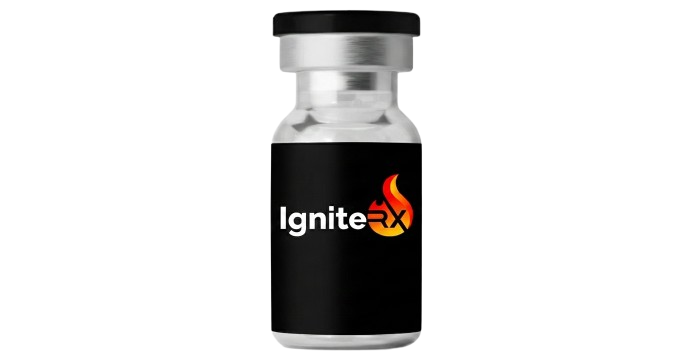
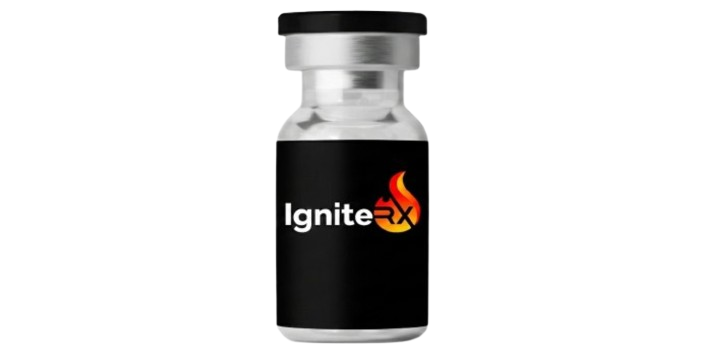
Added new images, slight UI changes

diff --git a/src/components/ExploreTreatment.tsx b/src/components/ExploreTreatment.tsx
@@ -5,11 +5,11 @@ import { ChevronLeft, ChevronRight } from 'lucide-react';
 import weightloss from "../assets/weightloss_new.jpg";
 import metabolic from "../assets/weight_loss.webp";
 import performance from "../assets/sermorelin_new.jpg";
-import longivity from "../assets/Performance.webp";
+import longivity from "../assets/longevity_treatment.jpg";
 import cardio from "../assets/metformin_new.jpg";
-import hairloss from "../assets/HairLoss.webp";
-import lifestyle from "../assets/lifestyle.webp";
-import skincare from "../assets/Skincare.webp";
+import hairloss from "../assets/hairloss_treatment.jpg";
+import lifestyle from "../assets/lifestyle_treatment.jpg";
+import skincare from "../assets/beauty_treatment.jpg";
 import stopsmoking from "../assets/smoking_new.jpg";
 
 
@@ -19,23 +19,27 @@ import 'swiper/css/navigation';
 import 'swiper/css/pagination';
 
 const treatments = [
-  { id: 1, title: 'Weight Loss', image: weightloss, color: 'text-purple-500' },
-  { id: 2, title: 'Sermorelin', image: performance, color: 'text-blue-500' },
-  // { id: 2, title: 'Performance', image: performance, color: 'text-blue-500' },
-  { id: 3, title: 'Metformin', image: cardio, color: 'text-orange-500' },
-  // { id: 3, title: 'Cardiovascular', image: cardio, color: 'text-orange-500' },
-  { id: 4, title: 'Stop Smoking', image: stopsmoking, color: 'text-yellow-500' },
-  // { id: 4, title: 'Metabolic', image: metabolic, color: 'text-yellow-500' },
-  { id: 5, title: 'Hair Loss', image: hairloss, color: 'text-blue-500' },
-  { id: 6, title: 'Lifestyle', image: lifestyle, color: 'text-white' },
-  { id: 7, title: 'Longivity', image: longivity, color: 'text-[#adc1d9]' },
-  { id: 8, title: 'Skincare', image: skincare, color: 'text-pink-300' },
+  { id: 1, title: 'Weight Loss', image: weightloss, color: 'border-purple-500' },
+  { id: 2, title: 'Sermorelin', image: performance, color: 'border-blue-500' },
+  // { id: 2, title: 'Performance', image: performance, color: 'border-blue-500' },
+  { id: 3, title: 'Metformin', image: cardio, color: 'border-orange-500' },
+  // { id: 3, title: 'Cardiovascular', image: cardio, color: 'border-orange-500' },
+  { id: 4, title: 'Stop Smoking', image: stopsmoking, color: 'border-yellow-500' },
+  // { id: 4, title: 'Metabolic', image: metabolic, color: 'border-yellow-500' },
+  { id: 5, title: 'Hair Loss', image: hairloss, color: 'border-blue-500' },
+  { id: 6, title: 'Lifestyle', image: lifestyle, color: 'border-white' },
+  { id: 7, title: 'Longevity', image: longivity, color: 'border-[#adc1d9]' },
+  { id: 8, title: 'Skincare', image: skincare, color: 'border-pink-300' },
 ];
 
 export const ExploreTreatment = () => {
+  const prevRef = useRef<HTMLButtonElement>(null);
+  const nextRef = useRef<HTMLButtonElement>(null);
+  const paginationRef = useRef<HTMLDivElement>(null);
+
   return (
     <section className="bg-black text-white py-8 md:py-24 px-6 md:px-4">
-      <div className="">
+      <div className="flex flex-col relative">
         
         {/* Header with Navigation and Progress */}
         <div className="container mx-auto px-0 flex flex-col md:flex-row md:items-end justify-between mb-12 gap-6 px-6 md:px-12">
@@ -44,19 +48,19 @@ export const ExploreTreatment = () => {
           </h2>
 
           {/* Controls Container */}
-          <div className="hidden md:flex items-center gap-6 min-w-[200px]">
+          <div className="flex items-center gap-6 min-w-[200px] mt-6 md:mt-0">
             {/* Custom Prev Arrow */}
-            <button className="swiper-button-prev-custom text-gray-500 hover:text-white transition">
+            <button ref={prevRef} className="text-gray-500 hover:text-white transition">
               <ChevronLeft size={32} strokeWidth={1} />
             </button>
 
             {/* Progress Bar Container */}
-            <div className="flex-1 h-[3px] bg-gray-500 relative min-w-[100px]">
-              <div className="swiper-pagination-custom-progressbar absolute top-0 left-0 h-full bg-gray-500 transition-all duration-300 " />
+            <div className="flex-1 h-[2.5px] bg-gray-400 relative min-w-[80px]">
+              <div ref={paginationRef} className="absolute top-0 left-0 h-full bg-gray-500 transition-all duration-300 [&_.swiper-pagination-progressbar-fill]:bg-white" />
             </div>
 
             {/* Custom Next Arrow */}
-            <button className="swiper-button-next-custom text-gray-500 hover:text-white transition">
+            <button ref={nextRef} className="text-gray-500 hover:text-white transition">
               <ChevronRight size={32} strokeWidth={1} />
             </button>
           </div>
@@ -67,14 +71,21 @@ export const ExploreTreatment = () => {
           modules={[Navigation, Pagination]}
           spaceBetween={20}
           slidesPerView={1.2} // Show a peek of the next slide on mobile
+          onBeforeInit={(swiper) => {
+            // @ts-ignore
+            swiper.params.navigation.prevEl = prevRef.current;
+            // @ts-ignore
+            swiper.params.navigation.nextEl = nextRef.current;
+            // @ts-ignore
+            swiper.params.pagination.el = paginationRef.current;
+          }}
           navigation={{
-            prevEl: '.swiper-button-prev-custom',
-            nextEl: '.swiper-button-next-custom',
+            prevEl: prevRef.current,
+            nextEl: nextRef.current,
           }}
           pagination={{
             type: 'progressbar',
-            el: '.swiper-pagination-custom-progressbar ',
-            
+            el: paginationRef.current,
           }}
           breakpoints={{
             640: { slidesPerView: 2 },
@@ -84,12 +95,12 @@ export const ExploreTreatment = () => {
         >
           {treatments.map((item) => (
             <SwiperSlide key={item.id}>
-              <div className="relative group cursor-pointer overflow-hidden rounded-sm aspect-[3/4]">
+              <div className={`relative group cursor-pointer overflow-hidden rounded-sm aspect-[3/4] border-b-[10px] ${item.color}`}>
                 {/* Image with Grayscale effect */}
                 <img 
                   src={item.image} 
                   alt={item.title} 
-                  className="w-full h-full object-cover grayscale brightness-75 group-hover:grayscale-0 group-hover:scale-105 transition-all duration-500"
+                  className="w-full h-full object-cover brightness-75 group-hover:grayscale group-hover:scale-105 transition-all duration-500"
                 />
                 
                 {/* Title and Colored Border Bottom */}
@@ -97,42 +108,13 @@ export const ExploreTreatment = () => {
                   <h3 className="text-2xl font-bold md:text-[40px] md:font-extrabold leading-tight tracking-[-0.8px] md:tracking-[-1.6px] text-white">
                     {item.title}
                   </h3>
-                  <svg 
-                    xmlns="http://www.w3.org/2000/svg"
-                    width="248"
-                  
-                    viewBox="0 0 248 12" 
-                    className={`w-[80%] -ml-1 h-2 ${item.color}`}
-                  >
-                    <path 
-                      d="M1 10.0001C24.8333 7.8334 82.4 3.30007 122 2.50007C161.6 1.70007 221.833 2.16674 247 2.50007" 
-                      stroke="currentColor" 
-                      strokeWidth="8" 
-                      strokeLinecap="round" 
-                    />
-                  </svg>
+
                 </div>
               </div>
             </SwiperSlide>
           ))}
         </Swiper>
         </div>
-        <div className="md:hidden flex items-center gap-6 w-[200px] mt-8">
-            {/* Custom Prev Arrow */}
-            <button className="swiper-button-prev-custom text-gray-500 hover:text-white transition">
-              <ChevronLeft size={32} strokeWidth={1} />
-            </button>
-
-            {/* Progress Bar Container */}
-            <div className="flex-1 h-[3px] bg-gray-500 relative min-w-[100px]">
-              <div className="swiper-pagination-custom-progressbar absolute top-0 left-0 h-full bg-gray-500 transition-all duration-300 " />
-            </div>
-
-            {/* Custom Next Arrow */}
-            <button className="swiper-button-next-custom text-gray-500 hover:text-white transition">
-              <ChevronRight size={32} strokeWidth={1} />
-            </button>
-          </div>
       </div>
     </section>
   );

diff --git a/src/components/OurServices.tsx b/src/components/OurServices.tsx
@@ -8,8 +8,8 @@ import weightLoss from "../assets/weightloss_treatment.jpg";
 import longevity from "../assets/longevity_treatment.jpg";
 import sexualHealth from "../assets/sexual_treatment.jpg"; // Using performance solutions for Sexual Health
 import hairLoss from "../assets/hairloss_treatment.jpg";
-import beauty from "../assets/Skincare.webp";
-import lifestyle from "../assets/lifestyle.webp";
+import beauty from "../assets/beauty_treatment.jpg";
+import lifestyle from "../assets/lifestyle_treatment.jpg";
 
 // Import Swiper styles
 import 'swiper/css';
@@ -19,26 +19,32 @@ const services = [
   {
     title: "WEIGHT LOSS",
     image: weightLoss,
+    color: 'border-purple-500',
   },
   {
     title: "LONGEVITY & ANTI-AGING",
     image: longevity,
+    color: 'border-[#adc1d9]',
   },
   {
     title: "SEXUAL HEALTH",
     image: sexualHealth,
+    color: 'border-red-500',
   },
   {
     title: "HAIR LOSS",
     image: hairLoss,
+    color: 'border-blue-500',
   },
   {
     title: "BEAUTY",
     image: beauty,
+    color: 'border-pink-300',
   },
   {
     title: "LIFESTYLE",
     image: lifestyle,
+    color: 'border-white',
   }
 ];
 
@@ -113,19 +119,20 @@ export const OurServices = () => {
 };
 
 // Reusable Card Component
+// Reusable Card Component
 const ServiceCard = ({ service }) => (
-  <div className="relative aspect-[3/4] rounded-xl overflow-hidden group bg-[#111] border border-white/5">
+  <div className={`relative aspect-[3/4] rounded-xl overflow-hidden group bg-[#111] border border-white/5 border-b-[10px] ${service.color}`}>
     {/* Dark Overlaid Background Image */}
     <img
       src={service.image}
       alt={service.title}
-      className="absolute inset-0 w-full h-full object-cover  group-hover:scale-110 group-hover:opacity-60 transition-all duration-700"
+      className="absolute inset-0 w-full h-full object-cover group-hover:scale-110 group-hover:opacity-60 transition-all duration-700"
     />
     <div className="absolute inset-0 bg-black/40" />
 
     {/* Content */}
-    <div className="absolute inset-0 p-4 md:p-8 flex flex-col justify-start">
-      <h3 className="text-xl font-black leading-tight tracking-tight mb-auto max-w-[150px]">
+    <div className="absolute bottom-8 left-6 right-6 flex flex-col items-center">
+      <h3 className="text-2xl font-bold md:text-[40px] md:font-extrabold leading-tight tracking-[-0.8px] md:tracking-[-1.6px] text-white text-center">
         {service.title}
       </h3>
     </div>

diff --git a/src/components/BestSellers.tsx b/src/components/BestSellers.tsx
@@ -286,7 +286,7 @@ export const BestSellers = () => {
                   <img 
                     src={product.image} 
                     alt={product.name} 
-                    className="w-full h-full object-contain p-4 transition-transform duration-500 group-hover:scale-105"
+                    className="w-full h-full object-contain p-0 transition-transform duration-500 group-hover:scale-105"
                   />
                 </div>
 
